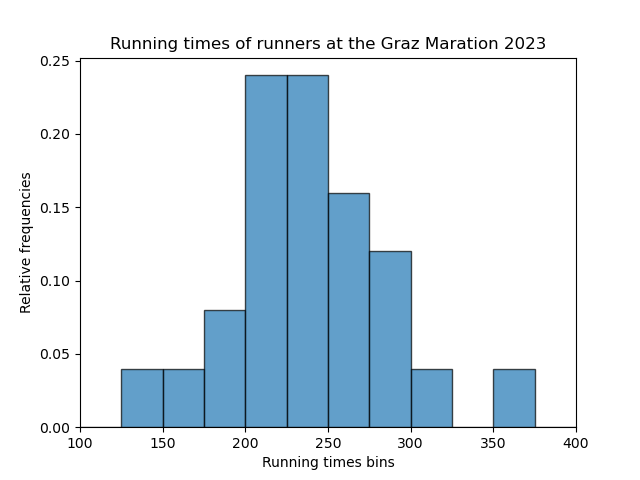
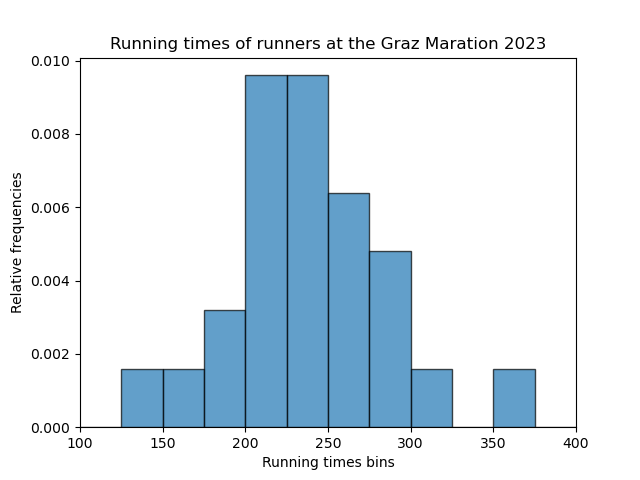
Fix relative frequency calculation

diff --git a/Ex1/1.py b/Ex1/1.py
@@ -13,7 +13,7 @@ def draw_histogramm(lower_bound, upper_bound, num_of_intervals, samples):
                 bin_counts[index] += 1
                 break
 
-    relative_bin_counts = bin_counts / len(samples)
+    relative_bin_counts = bin_counts / (len(samples) * step)
     
     plt.bar(bins, relative_bin_counts, width=step, align='edge', edgecolor='black', alpha=0.7)
     plt.xlim(lower_bound, upper_bound)
